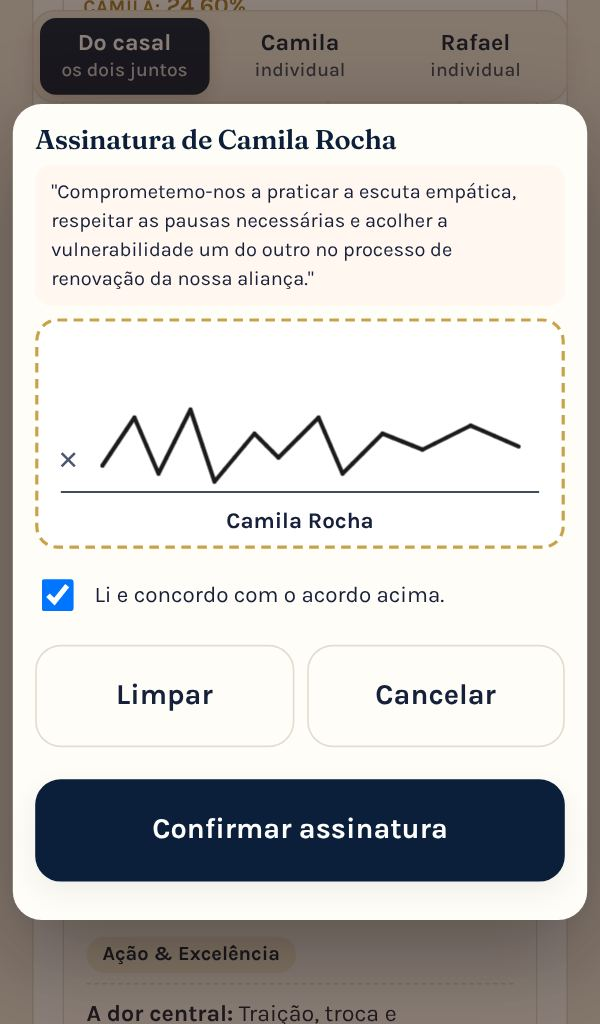
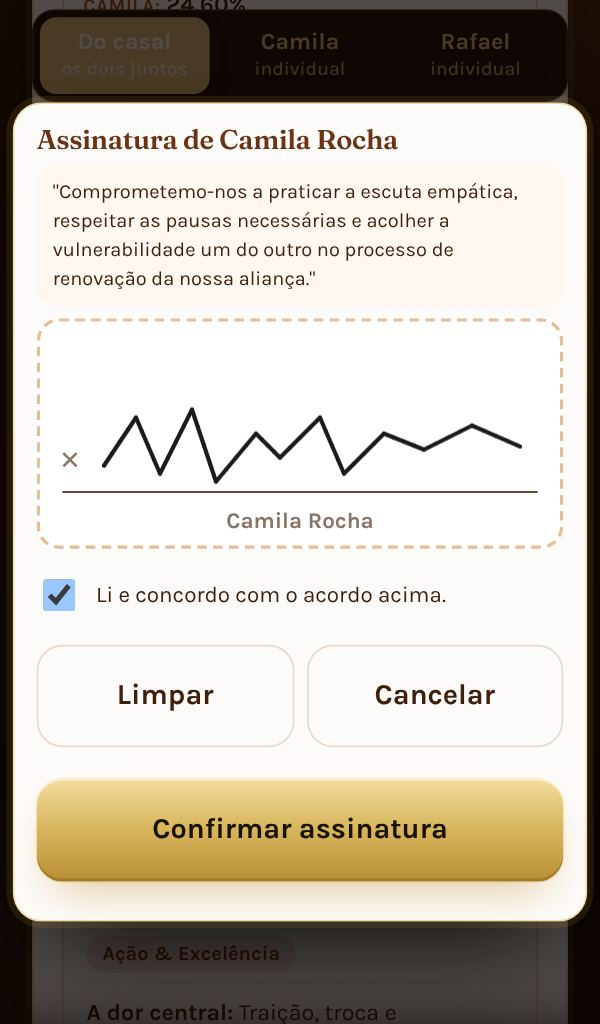
Páginas de venda: imagens no visual premium com a página de cada autora (Traços: Tatiana; MPCC: Meire; Ansiedade: Bárbara; DISC: Mauricio); janela de assinatura clara no tema premium
Claude-Session: https://claude.ai/code/session_01ABYTM9ydTnwZVq9ybeF7Jv

diff --git a/produtos/tracos/index.html b/produtos/tracos/index.html
@@ -44,8 +44,8 @@
       <div class="garantias"><span>Página com o seu nome e a sua foto</span><span>Individual e em casal</span><span>Devolutiva pronta em PDF</span></div>
     </div>
     <div class="hero-telas" aria-hidden="true">
-      <div class="tela-pc"><img src="../img/tracos-painel.jpg" alt="" width="1200" height="915"></div>
-      <div class="celular"><img src="../img/tracos-casal.jpg" alt="" width="600" height="1024"></div>
+      <div class="tela-pc"><img src="../img/tracos-painel.jpg?v=202611121730" alt="" width="1200" height="915"></div>
+      <div class="celular"><img src="../img/tracos-casal.jpg?v=202611121730" alt="" width="600" height="1024"></div>
     </div>
   </div>
 </section>
@@ -70,7 +70,7 @@
 
 <section class="autora">
   <div class="w autora-grade">
-    <figure class="autora-foto"><img src="../img/tracos-tatiana.jpg" alt="Tatiana Barbosa da Silva, terapeuta criadora do Teste de Traços de Caráter" width="480" height="640" loading="lazy"></figure>
+    <figure class="autora-foto"><img src="../img/tracos-tatiana.jpg?v=202611121730" alt="Tatiana Barbosa da Silva, terapeuta criadora do Teste de Traços de Caráter" width="480" height="640" loading="lazy"></figure>
     <div>
       <span class="olho">Quem criou o teste</span>
       <h2>Tatiana Barbosa da Silva</h2>
@@ -108,7 +108,7 @@
         <p>Você escolhe o link, coloca o seu nome, a sua foto e as suas cores. O código que você envia já abre o teste certo, individual ou de casal. Se você já tem o Teste de Travas, o novo teste entra na mesma página e a capa apresenta os dois.</p>
         <p class="ganho">Um link seu para divulgar no Instagram e no WhatsApp.</p>
       </div>
-      <figure class="celular claro"><img style="aspect-ratio:600/1024" src="../img/tracos-capa.jpg" alt="Capa da página do teste apresentando o Teste de Travas Mentais e o Teste de Traços de Caráter" width="600" height="1024" loading="lazy"></figure>
+      <figure class="celular claro"><img style="aspect-ratio:600/1024" src="../img/tracos-capa.jpg?v=202611121730" alt="Capa do Teste de Traços de Caráter na página da Tatiana Barbosa, autora do teste" width="600" height="1024" loading="lazy"></figure>
     </div>
 
     <div class="passo com-celular inverte">
@@ -118,7 +118,7 @@
         <p>Os 5 traços em porcentagem, o gráfico de teia, os dois picos explicados, a dor central, os recursos e ações práticas. Com o seu nome e a sua assinatura.</p>
         <p class="ganho">Horas de trabalho viram um toque.</p>
       </div>
-      <figure class="celular claro"><img style="aspect-ratio:600/1024" src="../img/tracos-individual.jpg" alt="Devolutiva individual com a tabela dos traços e o gráfico de teia" width="600" height="1024" loading="lazy"></figure>
+      <figure class="celular claro"><img style="aspect-ratio:600/1024" src="../img/tracos-individual.jpg?v=202611121730" alt="Devolutiva individual com a tabela dos traços e o gráfico de teia" width="600" height="1024" loading="lazy"></figure>
     </div>
 
     <div class="passo com-celular">
@@ -128,7 +128,7 @@
         <p>Cada um responde no próprio celular, com o mesmo código. Quem termina já vê a sua devolutiva individual. Quando os dois terminam, aparece a do casal: onde os traços se encontram, onde entram em atrito e o caminho para os dois.</p>
         <p class="ganho">Um produto novo para atender casais, sem montar nada.</p>
       </div>
-      <figure class="celular claro"><img style="aspect-ratio:600/1024" src="../img/tracos-casal.jpg" alt="Devolutiva do casal com abas para a devolutiva de cada um e o gráfico de teia dos dois" width="600" height="1024" loading="lazy"></figure>
+      <figure class="celular claro"><img style="aspect-ratio:600/1024" src="../img/tracos-casal.jpg?v=202611121730" alt="Devolutiva do casal com abas para a devolutiva de cada um e o gráfico de teia dos dois" width="600" height="1024" loading="lazy"></figure>
     </div>
 
     <div class="passo com-celular inverte">
@@ -138,7 +138,7 @@
         <p>No fim da devolutiva do casal, cada um assina o acordo terapêutico com o dedo. Quem não assinar na hora assina depois, pelo mesmo link, e a assinatura aparece no PDF.</p>
         <p class="ganho">Compromisso visível desde a primeira sessão.</p>
       </div>
-      <figure class="celular claro"><img style="aspect-ratio:600/1024" src="../img/tracos-assinatura.jpg" alt="Tela de assinatura do acordo terapêutico do casal" width="600" height="1024" loading="lazy"></figure>
+      <figure class="celular claro"><img style="aspect-ratio:600/1024" src="../img/tracos-assinatura.jpg?v=202611121730" alt="Tela de assinatura do acordo terapêutico do casal" width="600" height="1024" loading="lazy"></figure>
     </div>
 
     <div class="passo">
@@ -148,7 +148,7 @@
         <p>Na sua área: WhatsApp com a mensagem pronta, e-mail para você e para o cliente, “Gerar apresentação” com o plano de acompanhamento, copiar a ficha e PDF. No casal, as três devolutivas ficam em abas.</p>
         <p class="ganho">Do resultado à proposta de acompanhamento em minutos.</p>
       </div>
-      <div class="tela-pc clara"><img src="../img/tracos-painel.jpg" alt="Área da terapeuta com as abas do casal e os botões de WhatsApp, e-mail, apresentação e PDF" width="1200" height="915" loading="lazy"></div>
+      <div class="tela-pc clara"><img src="../img/tracos-painel.jpg?v=202611121730" alt="Área da terapeuta com as abas do casal e os botões de WhatsApp, e-mail, apresentação e PDF" width="1200" height="915" loading="lazy"></div>
     </div>
   </div>
 </section>

diff --git a/produtos/ansiedade/index.html b/produtos/ansiedade/index.html
@@ -45,8 +45,8 @@
       <div class="garantias"><span>Escala GAD-7 validada</span><span>Mapa das 6 áreas da ansiedade</span><span>Evolução em gráfico a cada 15 dias</span></div>
     </div>
     <div class="hero-telas" aria-hidden="true">
-      <div class="tela-pc"><img src="../img/ansiedade-painel.jpg" alt="" width="1200" height="915"></div>
-      <div class="celular"><img src="../img/ansiedade-evolucao.jpg" alt="" width="600" height="1024"></div>
+      <div class="tela-pc"><img src="../img/ansiedade-painel.jpg?v=202611121730" alt="" width="1200" height="915"></div>
+      <div class="celular"><img src="../img/ansiedade-evolucao.jpg?v=202611121730" alt="" width="600" height="1024"></div>
     </div>
   </div>
 </section>
@@ -80,7 +80,7 @@
         <p>Você escolhe o link, coloca o seu nome, a sua foto e as suas cores. O código que você envia já abre o teste, e o <b>mesmo link</b> serve para todas as aplicações do acompanhamento. Se você já tem outros testes, o de Ansiedade entra na mesma página.</p>
         <p class="ganho">Um link por cliente, do primeiro dia ao fim do tratamento.</p>
       </div>
-      <figure class="celular claro"><img style="aspect-ratio:600/1024" src="../img/ansiedade-capa.jpg" alt="Capa do Teste de Ansiedade na página da terapeuta" width="600" height="1024" loading="lazy"></figure>
+      <figure class="celular claro"><img style="aspect-ratio:600/1024" src="../img/ansiedade-capa.jpg?v=202611121730" alt="Capa do Teste de Ansiedade na página da terapeuta" width="600" height="1024" loading="lazy"></figure>
     </div>
 
     <div class="passo com-celular inverte">
@@ -90,7 +90,7 @@
         <p>Primeiro, as 7 perguntas do <b>GAD-7</b>, a escala de ansiedade mais usada no mundo e validada no Brasil. Depois, 30 perguntas de 1 a 10 sobre 6 áreas: intensidade e controle, corpo, mente, sono, rotina e recursos emocionais. O seu cliente não vê o número da pergunta nem a contagem: aparece uma por vez, com incentivo no caminho, para ir até o fim. A maioria termina em cerca de 7 minutos.</p>
         <p class="ganho">Uma régua reconhecida e um retrato completo, no mesmo teste.</p>
       </div>
-      <figure class="celular claro"><img style="aspect-ratio:600/1024" src="../img/ansiedade-pergunta.jpg" alt="Pergunta do teste com a escala de 1 a 10" width="600" height="1024" loading="lazy"></figure>
+      <figure class="celular claro"><img style="aspect-ratio:600/1024" src="../img/ansiedade-pergunta.jpg?v=202611121730" alt="Pergunta do teste com a escala de 1 a 10" width="600" height="1024" loading="lazy"></figure>
     </div>
 
     <div class="passo com-celular">
@@ -100,7 +100,7 @@
         <p>O resultado mostra a classificação do GAD-7 (mínima, leve, moderada ou grave), o mapa das 6 áreas em gráfico e o que cada área revela, com orientações práticas. Quando a ansiedade aparece em nível grave, o resultado traz um aviso de cuidado e você recebe um alerta no e-mail.</p>
         <p class="ganho">O cliente se enxerga, e você sabe por onde começar.</p>
       </div>
-      <figure class="celular claro"><img style="aspect-ratio:600/1024" src="../img/ansiedade-resultado.jpg" alt="Resultado com o nível de ansiedade do GAD-7" width="600" height="1024" loading="lazy"></figure>
+      <figure class="celular claro"><img style="aspect-ratio:600/1024" src="../img/ansiedade-resultado.jpg?v=202611121730" alt="Resultado com o nível de ansiedade do GAD-7" width="600" height="1024" loading="lazy"></figure>
     </div>
 
     <div class="passo com-celular inverte">
@@ -110,7 +110,7 @@
         <p>A cada 15 dias o mesmo link libera uma nova aplicação, e a pessoa recebe um lembrete por e-mail. O resultado mostra a linha da evolução, o antes e o depois de cada área e setas de melhora. O relatório completo sai em PDF, com o botão para conversar com você no WhatsApp.</p>
         <p class="ganho">O seu trabalho vira um número que desce. É isso que mantém o cliente no tratamento.</p>
       </div>
-      <figure class="celular claro"><img style="aspect-ratio:600/1024" src="../img/ansiedade-evolucao.jpg" alt="Gráfico da evolução do índice de ansiedade em três aplicações" width="600" height="1024" loading="lazy"></figure>
+      <figure class="celular claro"><img style="aspect-ratio:600/1024" src="../img/ansiedade-evolucao.jpg?v=202611121730" alt="Gráfico da evolução do índice de ansiedade em três aplicações" width="600" height="1024" loading="lazy"></figure>
     </div>
 
     <div class="passo">
@@ -120,7 +120,7 @@
         <p>Cada pessoa aparece com o número de aplicações, o último GAD-7, a variação e a data da próxima. Você libera uma aplicação antes, muda o intervalo (7, 15 ou 30 dias), encerra o acompanhamento, envia o lembrete pelo WhatsApp, gera a apresentação do seu acompanhamento, baixa o PDF e exporta tudo para planilha.</p>
         <p class="ganho">Todos os seus acompanhamentos em um lugar só.</p>
       </div>
-      <div class="tela-pc clara"><img src="../img/ansiedade-painel.jpg" alt="Área da terapeuta com a lista de acompanhamentos de ansiedade" width="1200" height="915" loading="lazy"></div>
+      <div class="tela-pc clara"><img src="../img/ansiedade-painel.jpg?v=202611121730" alt="Área da terapeuta com a lista de acompanhamentos de ansiedade" width="1200" height="915" loading="lazy"></div>
     </div>
   </div>
 </section>

diff --git a/produtos/disc/index.html b/produtos/disc/index.html
@@ -45,8 +45,8 @@
       <div class="garantias"><span>Análise comportamental, não terapêutica</span><span>3 perfis, gráficos e laudo em PDF</span><span>Cronômetro de 60 s para o WhatsApp</span></div>
     </div>
     <div class="hero-telas" aria-hidden="true">
-      <div class="tela-pc"><img src="../img/disc-painel.jpg" alt="" width="1200" height="915"></div>
-      <div class="celular"><img src="../img/disc-resultado.jpg" alt="" width="600" height="1024"></div>
+      <div class="tela-pc"><img src="../img/disc-painel.jpg?v=202611121730" alt="" width="1200" height="915"></div>
+      <div class="celular"><img src="../img/disc-resultado.jpg?v=202611121730" alt="" width="600" height="1024"></div>
     </div>
   </div>
 </section>
@@ -87,7 +87,7 @@
         <p>Em cada bloco, 4 palavras. A pessoa marca a que <b>MAIS</b> a descreve e a que <b>MENOS</b> a descreve no trabalho. Cada palavra está ligada a um dos fatores D, I, S e C, sem que ela perceba. Sem escala de 1 a 5: não dá para "ficar no meio". São 24 blocos, mas a pessoa não vê a contagem: aparece um bloco por vez, com frases de incentivo. A maioria termina em cerca de 7 minutos, no celular.</p>
         <p class="ganho">Método ipsativo: respostas mais honestas, menos "politicamente corretas".</p>
       </div>
-      <figure class="celular claro"><img style="aspect-ratio:600/1024" src="../img/disc-bloco.jpg" alt="Bloco do DISC com quatro palavras e os botões MAIS e MENOS" width="600" height="1024" loading="lazy"></figure>
+      <figure class="celular claro"><img style="aspect-ratio:600/1024" src="../img/disc-bloco.jpg?v=202611121730" alt="Bloco do DISC com quatro palavras e os botões MAIS e MENOS" width="600" height="1024" loading="lazy"></figure>
     </div>
 
     <div class="passo com-celular inverte">
@@ -97,7 +97,7 @@
         <p>Dominância, Influência, Estabilidade ou Conformidade: o fator mais alto vira o perfil predominante, com resumo, estilo (ex.: DI, SC) e a intensidade de cada fator, Alto ou Baixo.</p>
         <p class="ganho">A pessoa se reconhece no resultado e quer saber mais.</p>
       </div>
-      <figure class="celular claro"><img style="aspect-ratio:600/1024" src="../img/disc-resultado.jpg" alt="Resultado com o perfil predominante" width="600" height="1024" loading="lazy"></figure>
+      <figure class="celular claro"><img style="aspect-ratio:600/1024" src="../img/disc-resultado.jpg?v=202611121730" alt="Resultado com o perfil predominante" width="600" height="1024" loading="lazy"></figure>
     </div>
 
     <div class="passo com-celular">
@@ -107,7 +107,7 @@
         <p><b>Adaptado</b> (máscara: como age no trabalho, pelas escolhas MAIS), <b>Natural</b> (essência: como reage sob pressão, pelas rejeições MENOS invertidas) e <b>Resultante</b> (a média dos dois). Mais um gráfico radar com a intensidade nos 4 fatores.</p>
         <p class="ganho">A diferença entre máscara e essência mostra o esforço que a pessoa faz no trabalho.</p>
       </div>
-      <figure class="celular claro"><img style="aspect-ratio:600/1024" src="../img/disc-grafico.jpg" alt="Gráficos dos perfis Adaptado e Natural com a linha de 50%" width="600" height="1024" loading="lazy"></figure>
+      <figure class="celular claro"><img style="aspect-ratio:600/1024" src="../img/disc-grafico.jpg?v=202611121730" alt="Gráficos dos perfis Adaptado e Natural com a linha de 50%" width="600" height="1024" loading="lazy"></figure>
     </div>
 
     <div class="passo com-celular inverte">
@@ -117,7 +117,7 @@
         <p>Resumo do perfil, <b>áreas recomendadas</b> (ex.: vendas agressivas e liderança de crise para D; relacionamento, vendas complexas e RH para I; sucesso do cliente e operações para S; administração, finanças, tecnologia e qualidade para C), <b>estilo de liderança</b>, pontos fortes, pontos de atenção, como se comunicar e o que motiva. Tudo num PDF com capa.</p>
         <p class="ganho">Um laudo que a empresa entende e usa no mesmo dia.</p>
       </div>
-      <figure class="celular claro"><img style="aspect-ratio:600/1024" src="../img/disc-laudo.jpg" alt="Laudo com áreas recomendadas e estilo de liderança" width="600" height="1024" loading="lazy"></figure>
+      <figure class="celular claro"><img style="aspect-ratio:600/1024" src="../img/disc-laudo.jpg?v=202611121730" alt="Laudo com áreas recomendadas e estilo de liderança" width="600" height="1024" loading="lazy"></figure>
     </div>
 
     <div class="passo">
@@ -127,7 +127,7 @@
         <p>Gere códigos e envie o link pelo WhatsApp com a mensagem pronta. Veja todas as avaliações, abra os gráficos e o laudo, baixe o PDF, envie por e-mail e <b>gere uma apresentação comercial</b> com a proposta de desenvolvimento para a pessoa ou para a empresa. Exporte tudo para planilha.</p>
         <p class="ganho">Do resultado à proposta em minutos.</p>
       </div>
-      <div class="tela-pc clara"><img src="../img/disc-painel.jpg" alt="Área com a avaliação DISC, botões e o perfil predominante" width="1200" height="915" loading="lazy"></div>
+      <div class="tela-pc clara"><img src="../img/disc-painel.jpg?v=202611121730" alt="Área com a avaliação DISC, botões e o perfil predominante" width="1200" height="915" loading="lazy"></div>
     </div>
   </div>
 </section>

diff --git a/produtos/mpcc/index.html b/produtos/mpcc/index.html
@@ -45,8 +45,8 @@
       <div class="garantias"><span>Página com o seu nome e a sua foto</span><span>Gráfico radar e relatório em PDF</span><span>Botão para agendar a devolutiva</span></div>
     </div>
     <div class="hero-telas" aria-hidden="true">
-      <div class="tela-pc"><img src="../img/mpcc-painel.jpg" alt="" width="1200" height="915"></div>
-      <div class="celular"><img src="../img/mpcc-resultado.jpg" alt="" width="600" height="1024"></div>
+      <div class="tela-pc"><img src="../img/mpcc-painel.jpg?v=202611121730" alt="" width="1200" height="915"></div>
+      <div class="celular"><img src="../img/mpcc-resultado.jpg?v=202611121730" alt="" width="600" height="1024"></div>
     </div>
   </div>
 </section>
@@ -80,7 +80,7 @@
         <p>Você escolhe o link, coloca o seu nome, a sua foto e as suas cores. A capa apresenta o MPCC como página de vendas, e o código que você envia já abre a avaliação. Se você já tem outros testes, o MPCC entra na mesma página.</p>
         <p class="ganho">Um link seu para divulgar no Instagram e no WhatsApp.</p>
       </div>
-      <figure class="celular claro"><img style="aspect-ratio:600/1024" src="../img/mpcc-capa.jpg" alt="Capa da página do teste apresentando o MPCC" width="600" height="1024" loading="lazy"></figure>
+      <figure class="celular claro"><img style="aspect-ratio:600/1024" src="../img/mpcc-capa.jpg?v=202611121730" alt="Capa da página do teste apresentando o MPCC" width="600" height="1024" loading="lazy"></figure>
     </div>
 
     <div class="passo com-celular inverte">
@@ -90,7 +90,7 @@
         <p>Depois das 40 afirmações (uma por vez, com indicador de progresso), o cliente vê o perfil geral, os maiores recursos e as áreas em desenvolvimento, em 8 dimensões: autonomia, comunicação, relacionamento, decisão, adaptação, organização, autoconfiança e regulação emocional.</p>
         <p class="ganho">Linguagem de desenvolvimento, nunca de diagnóstico.</p>
       </div>
-      <figure class="celular claro"><img style="aspect-ratio:600/1024" src="../img/mpcc-resultado.jpg" alt="Tela do resultado com o perfil geral e a classificação" width="600" height="1024" loading="lazy"></figure>
+      <figure class="celular claro"><img style="aspect-ratio:600/1024" src="../img/mpcc-resultado.jpg?v=202611121730" alt="Tela do resultado com o perfil geral e a classificação" width="600" height="1024" loading="lazy"></figure>
     </div>
 
     <div class="passo com-celular">
@@ -100,7 +100,7 @@
         <p>Um gráfico que mostra num relance onde a pessoa já é forte e onde há mais espaço para crescer, com a nota de cada dimensão de 1 a 5.</p>
         <p class="ganho">O cliente entende o próprio perfil sem você explicar nada.</p>
       </div>
-      <figure class="celular claro"><img style="aspect-ratio:600/1024" src="../img/mpcc-grafico.jpg" alt="Gráfico radar com as oito dimensões do perfil" width="600" height="1024" loading="lazy"></figure>
+      <figure class="celular claro"><img style="aspect-ratio:600/1024" src="../img/mpcc-grafico.jpg?v=202611121730" alt="Gráfico radar com as oito dimensões do perfil" width="600" height="1024" loading="lazy"></figure>
     </div>
 
     <div class="passo com-celular inverte">
@@ -110,7 +110,7 @@
         <p>Um relatório de 6 páginas, com capa, visão geral, gráfico, pontos de destaque, aspectos em desenvolvimento e recomendações. No fim, o botão <b>“Quero agendar minha devolutiva”</b> leva direto para o seu WhatsApp, com o resultado na mensagem.</p>
         <p class="ganho">Horas de trabalho viram um toque, e o resultado vira conversa com você.</p>
       </div>
-      <figure class="celular claro"><img style="aspect-ratio:600/1024" src="../img/mpcc-recomendacoes.jpg" alt="Recomendações de desenvolvimento e convite para a devolutiva" width="600" height="1024" loading="lazy"></figure>
+      <figure class="celular claro"><img style="aspect-ratio:600/1024" src="../img/mpcc-recomendacoes.jpg?v=202611121730" alt="Recomendações de desenvolvimento e convite para a devolutiva" width="600" height="1024" loading="lazy"></figure>
     </div>
 
     <div class="passo">
@@ -120,7 +120,7 @@
         <p>Gere códigos e envie o link pelo WhatsApp com a mensagem pronta. Veja todas as avaliações, busque pelo nome, abra o relatório, baixe o PDF, acompanhe o histórico de cada pessoa e compare uma avaliação com a anterior. Exporte tudo para planilha.</p>
         <p class="ganho">Do resultado à devolutiva em minutos.</p>
       </div>
-      <div class="tela-pc clara"><img src="../img/mpcc-painel.jpg" alt="Área da terapeuta com a lista de avaliações do MPCC" width="1200" height="915" loading="lazy"></div>
+      <div class="tela-pc clara"><img src="../img/mpcc-painel.jpg?v=202611121730" alt="Área da terapeuta com a lista de avaliações do MPCC" width="1200" height="915" loading="lazy"></div>
     </div>
   </div>
 </section>

diff --git a/teste/tema-premium.css b/teste/tema-premium.css
@@ -317,7 +317,7 @@ html.tp .tela:not(#tela-admin) .dc-nota-peq{color:var(--tinta-suave)}
 html.tp .tela:not(#tela-admin) .disc-graf{background:#F7F4EC;border-color:rgba(232,203,126,.6);box-shadow:0 18px 40px -22px rgba(0,0,0,.9)}
 
 /* ---------- Traços de Caráter: a devolutiva é um documento (também vira PDF): folha clara com moldura dourada ---------- */
-html.tp .dv{--areia:var(--L-areia);--areia-escura:var(--L-areia-escura);--papel:var(--L-papel);--tinta:var(--L-tinta);--tinta-suave:var(--L-tinta-suave);
+html.tp .dv,html.tp .dv-pad{--areia:var(--L-areia);--areia-escura:var(--L-areia-escura);--papel:var(--L-papel);--tinta:var(--L-tinta);--tinta-suave:var(--L-tinta-suave);
   --ardosia:var(--L-ardosia);--ardosia-escura:var(--L-ardosia-escura);--ardosia-clara:var(--L-ardosia-clara);--argila:var(--L-argila);--argila-clara:var(--L-argila-clara);
   --salvia:var(--L-salvia);--borda:var(--L-borda);color:var(--L-tinta);
   border:1px solid rgba(232,203,126,.7);box-shadow:0 0 0 4px rgba(201,162,74,.12),0 30px 60px -24px rgba(0,0,0,.95)}
@@ -330,3 +330,10 @@ html.tp .tela:not(#tela-admin) .tc-op.escolhida b{background:rgba(26,20,5,.18);c
 html.tp .dv .dv-caixa,html.tp .dv .dv-card,html.tp .dv .dv-acao,html.tp .dv .dv-final,html.tp .dv .dv-pico,html.tp .dv .teia,html.tp .dv .cartao{
   background:var(--L-papel);border-color:var(--L-borda);box-shadow:none;-webkit-backdrop-filter:none;backdrop-filter:none;color:var(--L-tinta)}
 html.tp .dv .dv-caixa h3,html.tp .dv .dv-card h3,html.tp .dv .dv-acao h4,html.tp .dv .dv-final h3{color:var(--L-ardosia)}
+
+/* janela de assinatura do acordo do casal: clara, como o relatório */
+html.tp .dv-pad h2{color:var(--L-ardosia)}
+html.tp .dv-pad .btn-contorno{color:var(--L-tinta);border-color:var(--L-borda);background:transparent}
+html.tp .dv-pad-acordo,html.tp .dv-pad-dica,html.tp .dv-pad-ok{color:var(--L-tinta)}
+html.tp .dv-pad-x,html.tp .dv-pad-nome{color:var(--L-tinta-suave)}
+html.tp .dv-pad-fundo{background:rgba(3,6,12,.72)}
